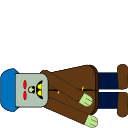
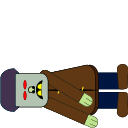
Fixed tire bug. Changed brute hair color to match power color.

Changed region(s): [[0.0, 0.5312, 0.1562, 0.875]]

diff --git a/Assets/Spewnity/Anim.cs b/Assets/Spewnity/Anim.cs
@@ -65,7 +65,7 @@ namespace Spewnity
 
         public void Start()
         {
-            Play(sequenceName, paused);
+            Replay(sequenceName, paused);
         }
 
         public void OnValidate()
@@ -73,7 +73,7 @@ namespace Spewnity
             UpdateCache();
 
             if (livePreview && (sequence == null || sequence.name != sequenceName))
-                Play(sequenceName);
+                Replay(sequenceName);
         }
 
         public void Play(string name, bool startPaused = false)
